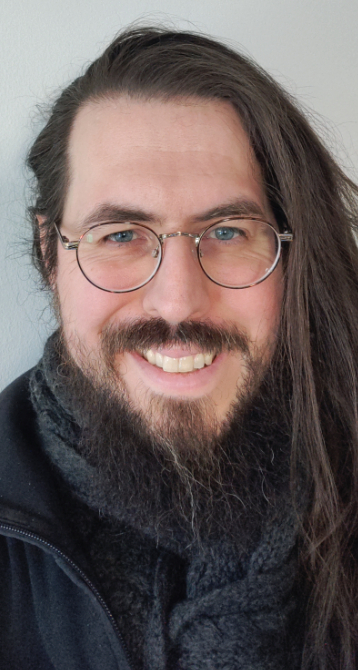
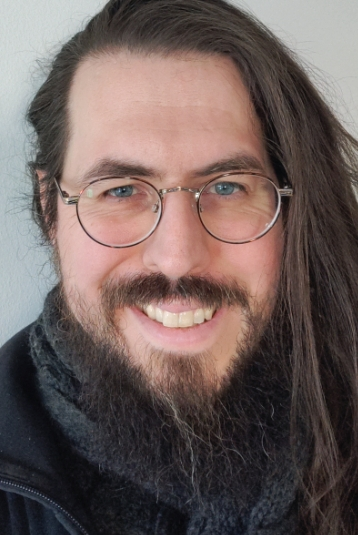
contact adjust

diff --git a/index.html b/index.html
@@ -626,7 +626,8 @@ The final version is a creature I imagine as somewhere between a badger and a ho
 <table class="about">
 	<tr><th><img src="Images/icon_cv.png" id="icon"></th> <td><a href="pdf/CVJosefOlsson.pdf" class="contact">CV</a></td></tr>
 	<tr><th><img src="Images/icon_mail.png" id="icon"></th> <td><a href="mailto: josefolsson.design@gmail.com" class="contact">MAIL</a></td></tr>
-	<tr><th><img src="Images/icon_twitter.png" id="icon"></th> <td><a href="https://twitter.com/josefolsson" class="contact">TWITTER</a></td></tr>
+	<!--<tr><th><img src="Images/icon_twitter.png" id="icon"></th> <td><a href="https://twitter.com/josefolsson" class="contact">TWITTER</a></td></tr>-->
+	<!--<tr><th><img src="Images/icon_twitter.png" id="icon"></th> <td><a href="https://bsky.app/profile/josefolsson.bsky.social" class="contact">BLUESKY</a></td></tr>-->
 	<tr><th><img src="Images/icon_linkedin.png" id="icon"></th> <td><a href="https://www.linkedin.com/in/josef-olsson-design" class="contact">LINKEDIN</a></td></tr>
 	</table>
 	

diff --git a/CSS/styles.css b/CSS/styles.css
@@ -1218,7 +1218,7 @@ a:hover {
   width: auto;
   max-width: 300px;
   height: auto;
-  max-height: 300px;
+  max-height: 230px;
   overflow: hidden;
   margin: 5px 30px 0px 40px;
 	border-radius: 50px 5px 5px 50px;
@@ -1238,7 +1238,7 @@ table.about {
   border-width: 2px;
   box-shadow: 5px 5px #494B62;
   max-height: 300px;
-  min-height: 300px;
+  min-height: 200px;
 }
 /*----------------------------------------  */
 #top-img {
@@ -1808,7 +1808,7 @@ iframe {
   width: auto;
   max-width: 300px;
   height: auto;
-  max-height: 300px;
+  max-height: 230px;
   overflow: hidden;
   margin: 5px 80px 20px 20px;
 	border-radius: 5px 50px 50px 5px;
@@ -1829,7 +1829,7 @@ table.about {
   border-width: 2px;
   box-shadow: 5px 5px #494B62;
   max-height: 300px;
-  min-height: 300px;
+  min-height: 200px;
 }
 /*----------------------------------------  */
   .portfolio-list {
